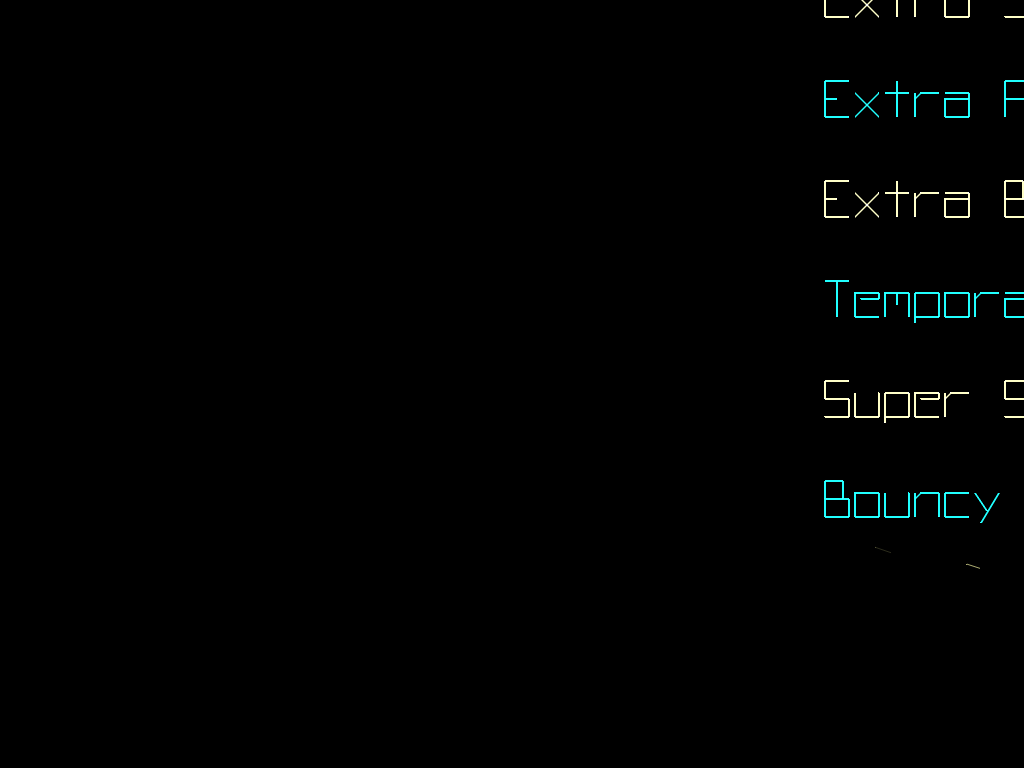
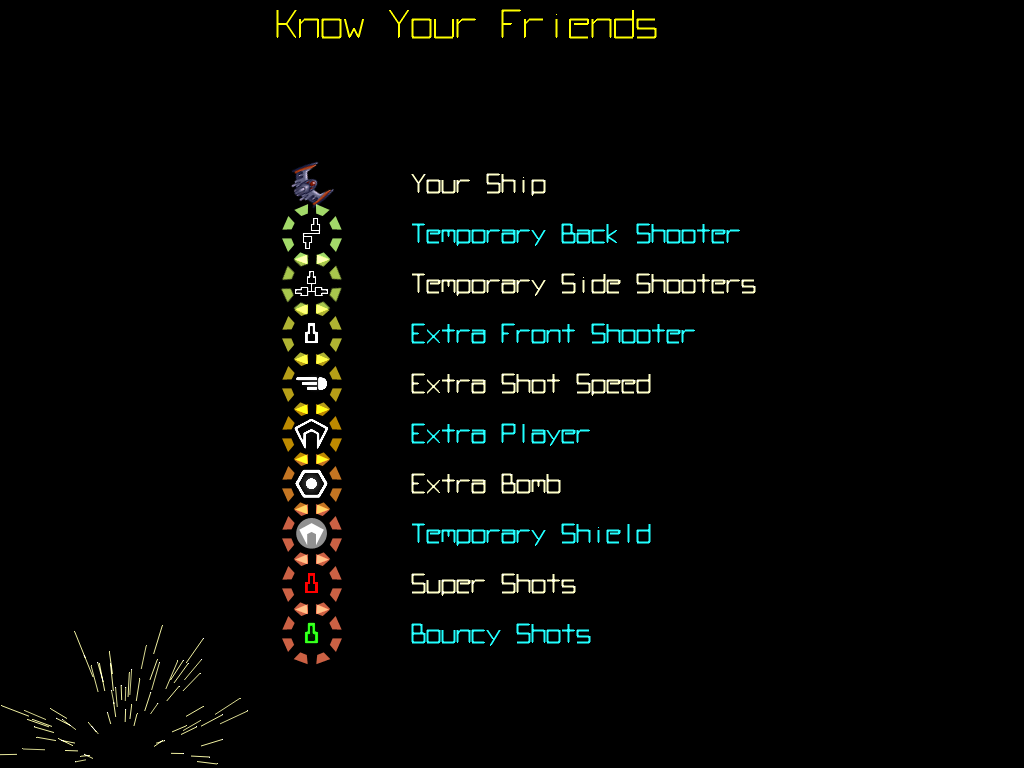
Make original captures reproducible

diff --git a/docs/captures/README.md b/docs/captures/README.md
@@ -5,29 +5,43 @@ original GridWars 5.4 renderer.
 
 ## Original renderer
 
-`original/` contains fixed-frame PNGs rendered from a temporary, instrumented
-copy of the repository's BlitzMax source. The repository source itself was not
-modified. The reference executable was built with the official BlitzMax NG
-macOS arm64 release `v0.165.3.61.macos.arm64`, archived under `docs/bb/` by URL
-and checksum.
+`original/` contains deterministic fixed-frame PNGs rendered from an isolated,
+instrumented copy of the repository's BlitzMax source. The repository source
+itself is never modified. The reference executable was built with the official
+BlitzMax NG macOS arm64 release `v0.165.3.61.macos.arm64`.
 
-The modern compiler required compatibility-only edits in the temporary copy:
+The reproducible harness is `scripts/capture-original.sh`; its small source
+instrumentation lives in `scripts/original-capture.patch`. The modern compiler
+requires compatibility-only edits in the temporary copy:
 
 - rename the game's `Rect` helper to avoid the newer `BRL.Max2D.Rect` symbol;
 - remove a duplicate legacy framework declaration;
-- enable the compiler's legacy numeric-conversion mode.
+- use the original implicit numeric conversions, which BlitzMax NG reports as
+  warnings;
+- bypass the modern `GraphicsModeExists` window-mode rejection for the fixed
+  1024×768 capture window;
+- disable Retina backing so `GrabPixmap` returns the complete logical frame
+  instead of one quadrant of the 2× framebuffer.
 
-The capture hook changes only the selected presentation page, the 1024×768
+Capture mode uses the original compiled renderer and assets, fixes the random
+seed, installs default scores and colours, and skips all reads and writes under
+`~/.config/gridwars`. It changes only the selected presentation page, fixed
 window mode, and PNG export after the named frame. Available references are:
 
 - `title-600.png`
 - `scores-600.png`
 - `friends-600.png`
+- `enemies-600.png`
+- `options-20.png`
 
-Further launches of the legacy executable were denied by the workspace safety
-policy because it may write configuration files. Enemy and options layouts are
-therefore audited directly against `gridwars.bmx` and `control.bmx` until those
-captures can be produced in an isolated user-approved environment.
+`original/SHA256SUMS` pins the exact reference artifacts. To regenerate them:
+
+```sh
+./scripts/capture-original.sh /path/to/BlitzMax
+```
+
+The script copies source and assets to a `mktemp` directory, patches and builds
+only that copy, captures the five states, then deletes the temporary build.
 
 ## Swift renderer
 

diff --git a/FIDELITY.md b/FIDELITY.md
@@ -68,16 +68,19 @@ the corresponding Swift implementation, and a test or visual/runtime check.
   conversion, and depth-divided star parallax. Matching visual captures are still required
   before checking the broad screen and menu entries.
 - Graphics and HUD: `images.bmx:34-100`, `gridwars.bmx:3266-3272, 5911-5932`,
-  and the fixed-frame original images in `docs/captures/original/` map to
+  and the deterministic fixed-frame original images in
+  `docs/captures/original/` map to
   `OriginalGraphics`, `OriginalHUDRenderer`, `OriginalScreenRenderer`, and the
   live texture-reload path in `GameScene`. All five original graphics folders
   are bundled without flattening, icon/snake animation sheets retain their
   set-specific frame sizes, white entity art is no longer palette-tinted, and
   the score, high score, multiplier, lives and bomb indicators use the original
-  vector font, coordinates, alpha and icon frames. A persistence-free macOS
-  capture catalog covers seventeen representative and menu states via
-  `scripts/capture-screens.sh`; image export requires an active unlocked window
-  session. Enemy pages reproduce the original individual rotation, pulse and
+  vector font, coordinates, alpha and icon frames. The isolated original
+  renderer now produces valid full-frame 1024×768 title, scores, friends,
+  enemies and options references via `scripts/capture-original.sh`; capture
+  mode bypasses all legacy configuration and high-score I/O. A persistence-free
+  Swift capture catalog covers seventeen representative and menu states via
+  `scripts/capture-screens.sh`. Enemy pages reproduce the original individual rotation, pulse and
   squash rates, while the score and friend pages retain their delayed colour
   trails instead of applying a uniform palette tint.
 - Persistence and legacy data: `control.bmx:218-872`,
